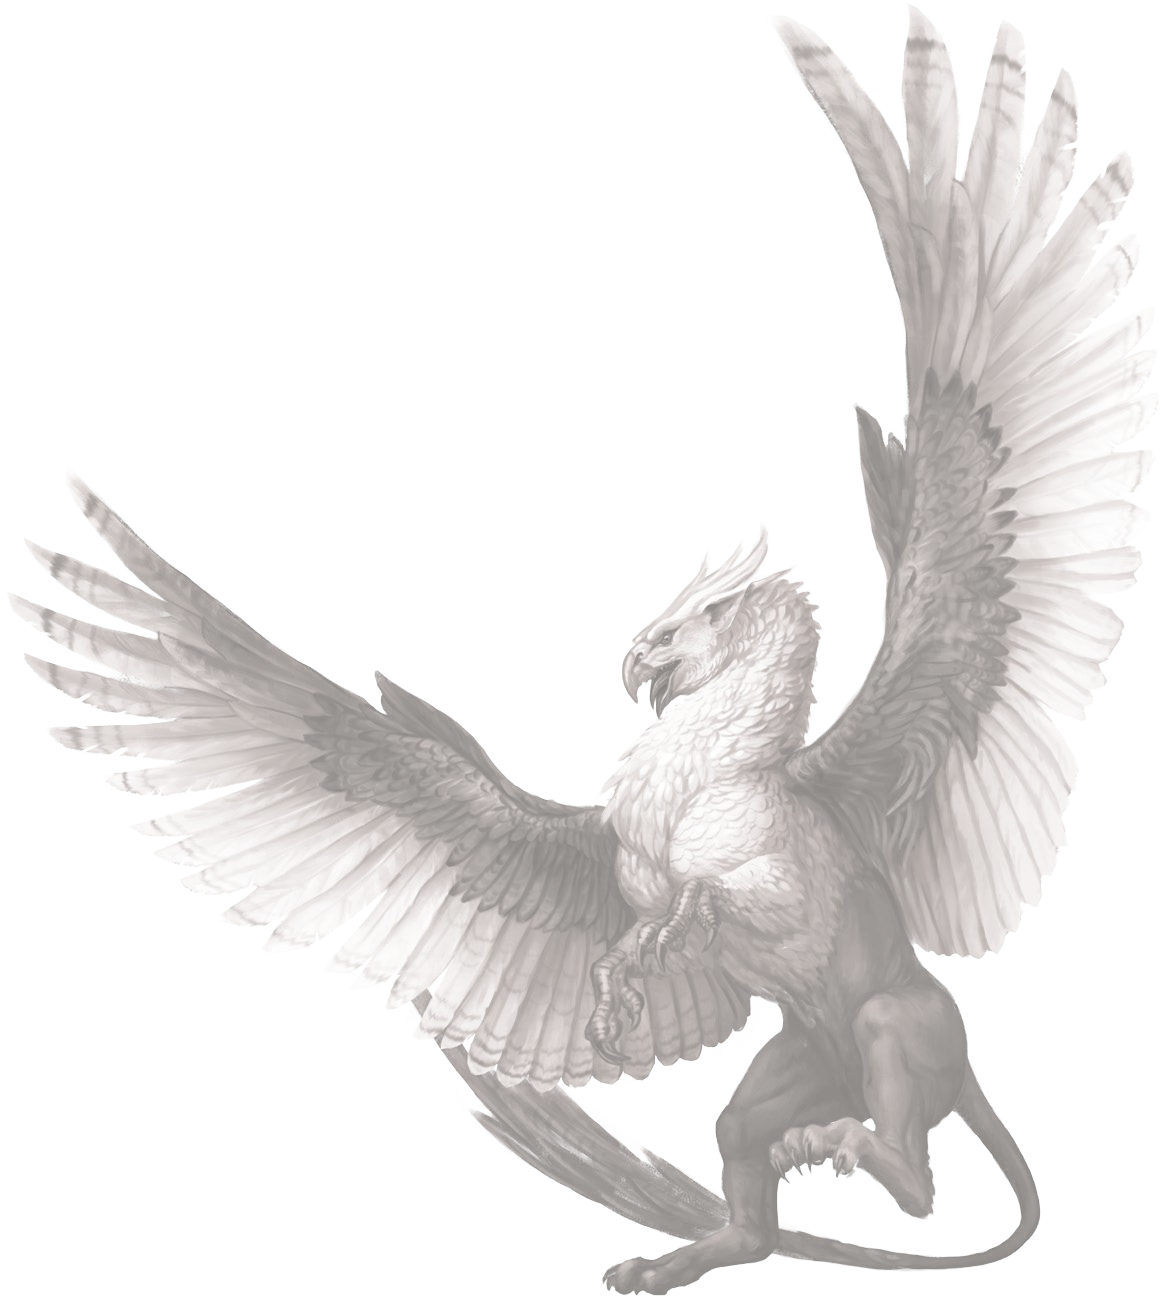
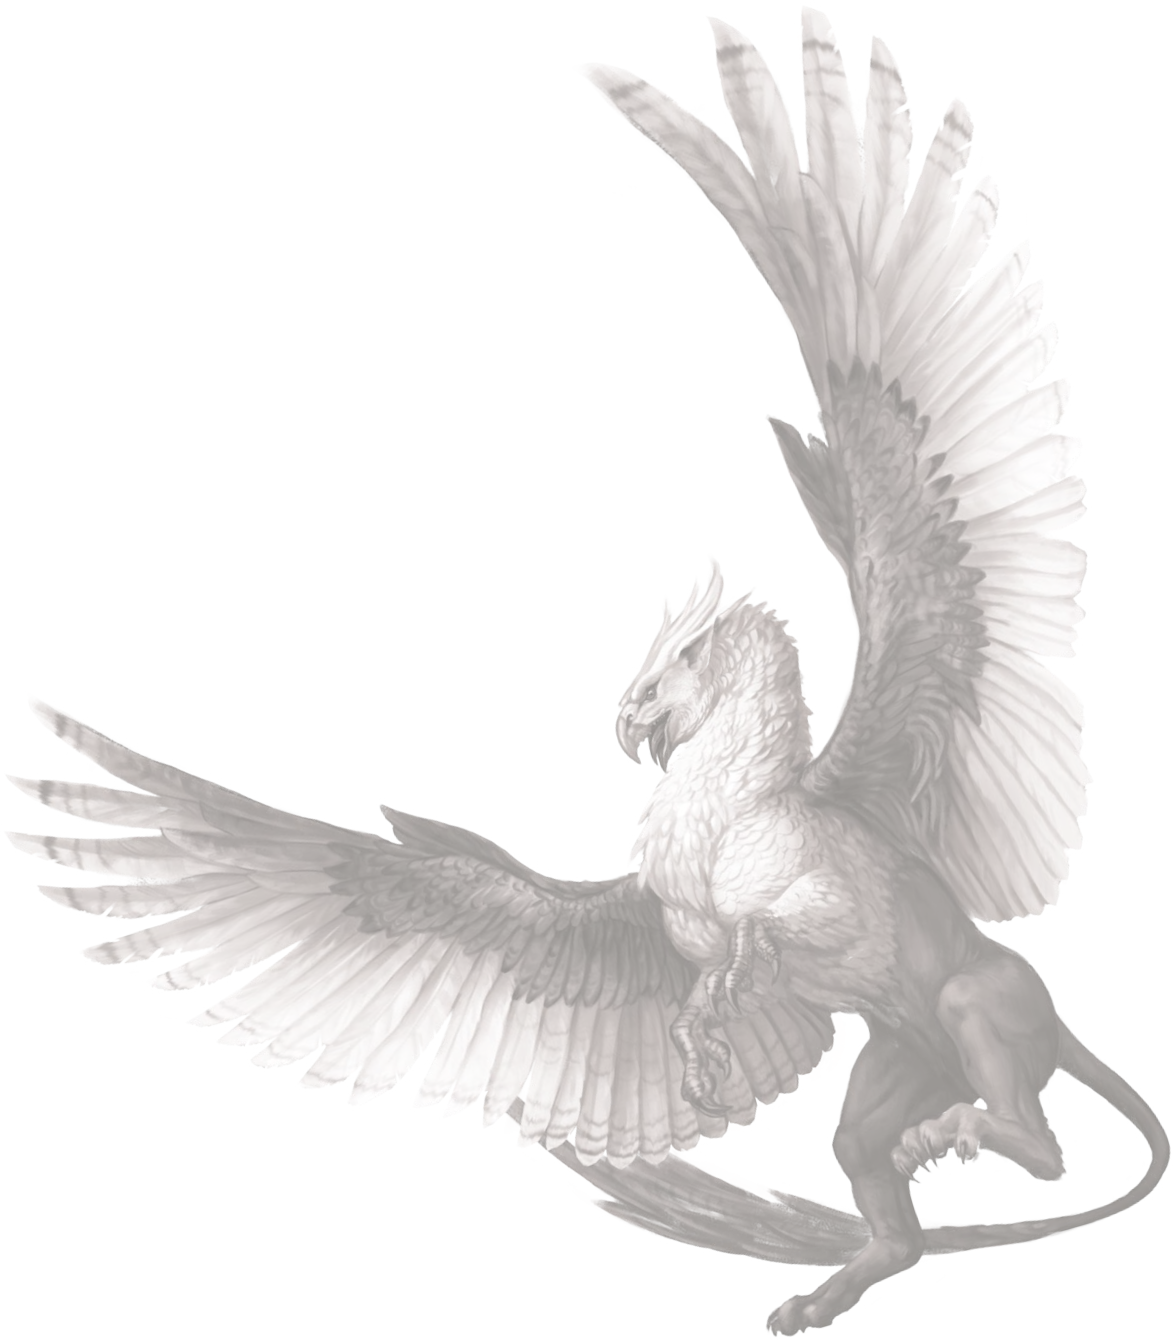
Adjust griffin art on hero page

Changed region(s): [[0.0309, 0.0, 1.0, 1.0], [0.9588, 0.1843, 0.9897, 0.2151]]

diff --git a/sections/heroes.tex b/sections/heroes.tex
@@ -107,7 +107,7 @@ They can be Recruited again with another use of the Population Token.\par
 \end{figure}
 
 \begin{tikzpicture}[overlay]
-  \node at (13.5, -1) {\includegraphics[width=0.6\linewidth]{\art/griffin.png}};
+  \node at (12, -0.5) {\includegraphics[width=0.6\linewidth]{\art/griffin.png}};
 \end{tikzpicture}
 
 \clearpage
